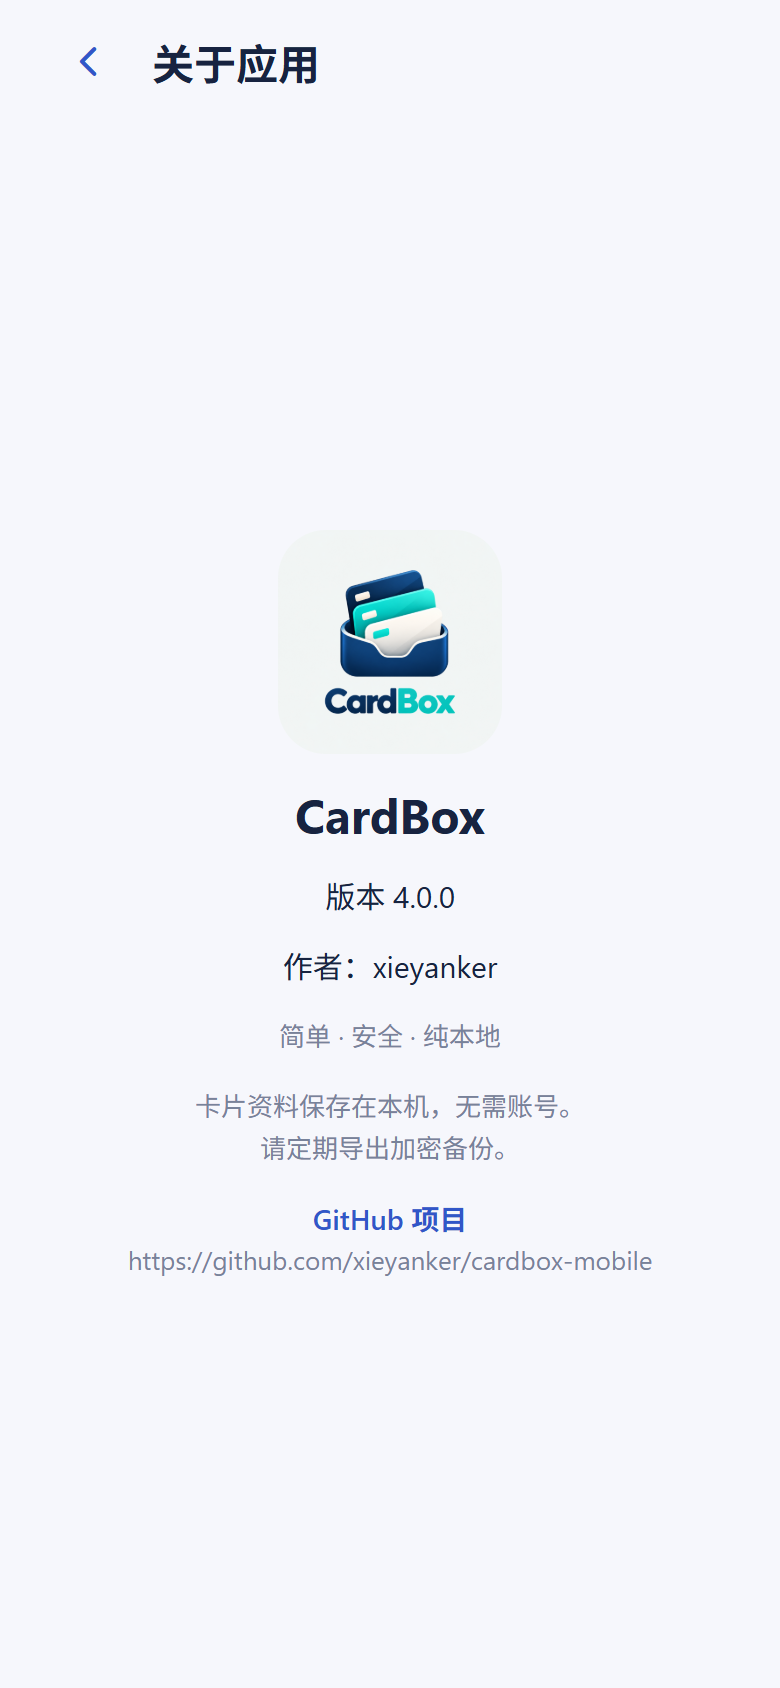
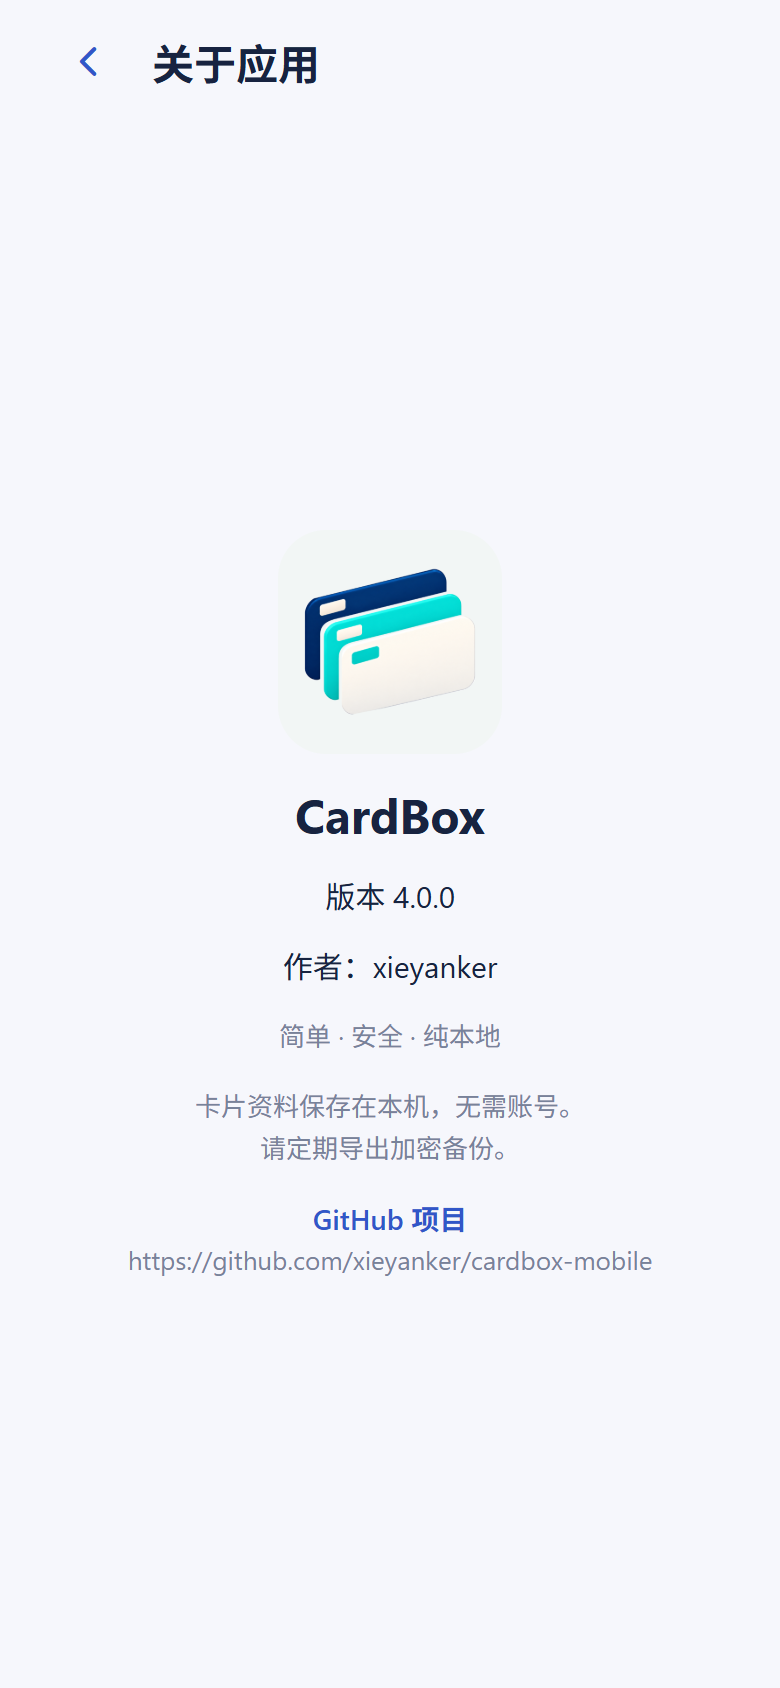
feat: adopt refined three-card CardBox branding

Changed region(s): [[0.3692, 0.3389, 0.5846, 0.4313]]

diff --git a/app.config.ts b/app.config.ts
@@ -31,9 +31,6 @@ const env = {
   // App branding - update these values directly (do not use env vars)
   appName: "CardBox",
   appSlug: "cardbox-mobile",
-  // S3 URL of the app logo - set this to the URL returned by generate_image when creating custom logo
-  // Leave empty to use the default icon from assets/images/icon.png
-  logoUrl: "",
   scheme: schemeFromBundleId,
   iosBundleId: bundleId,
   androidPackage: bundleId,
@@ -45,6 +42,7 @@ const config: ExpoConfig = {
   owner: "xieyanker",
   version: packageJson.version,
   orientation: "portrait",
+  // Shared 4.0 three-card branding: launcher, About, splash and documentation.
   icon: "./assets/images/icon.png",
   scheme: env.scheme,
   userInterfaceStyle: "automatic",

diff --git a/app/(tabs)/index.tsx b/app/(tabs)/index.tsx
@@ -711,7 +711,7 @@ export default function HomeScreen() {
           <Image
             source={require("../../assets/images/icon.png")}
             style={{ width: 112, height: 112, borderRadius: 24 }}
-            accessibilityLabel="CardBox 应用图标"
+            accessibilityLabel="CardBox 三卡叠放应用图标"
           />
           <Text style={styles.heading}>CardBox</Text>
           <Text style={styles.text}>版本 {APP_VERSION}</Text>

diff --git a/docs/design/ICON.md b/docs/design/ICON.md
@@ -2,24 +2,54 @@
 
 [设计说明](README.md) · [文档目录](../README.md) · [项目首页](../../README.md)
 
-图标在 3.0 引入，当前 4.0.0 沿用；下方记录素材来源和生成方式。
+更新日期：2026-10-13。当前版本 4.0.0 使用用户确认的三卡叠放图标。
 
-2026-10-11 使用内置 imagegen 生成原创图标。设计为三张深蓝、青绿与米白卡片收纳在卡包中，下方包含完整的 **CardBox** 字样。应用图标使用浅色背景；Android 自适应前景和启动标志保留透明背景；主题图标使用单色前景。
+## 当前设计
 
-生成原图保存在 `assets/branding/`，实际应用资源保存在 `assets/images/`。使用项目已有的 Expo 图像工具导出平台尺寸：
+![CardBox 三卡叠放应用图标](../../assets/images/icon.png)
+
+三张卡片从后到前为深蓝、青绿和米白，按相同角度向右上倾斜，两侧竖直，向右下错位叠放。保留卡面左上角的小标记与柔和质感，去掉原图的卡夹、CardBox 文字和斜向反光分界。颜色、圆角、间距与边缘处理统一，便于在小尺寸下辨认。
+
+用户在本轮逐步确认造型、配色和细节，最终授权接入应用。设计使用内置 imagegen 生成和调整；已确认的原始图保存在 `assets/branding/cardbox-approved-artwork.png`，平台资源由同一图稿导出，不再分别重绘。
+
+## 资源与引用
+
+| 文件                                                                                                                      | 用途                                             |
+| ------------------------------------------------------------------------------------------------------------------------- | ------------------------------------------------ |
+| [已确认原稿](../../assets/branding/cardbox-approved-artwork.png)                                                          | 保留用户选定的颜色、布局和质感。                 |
+| [透明标志](../../assets/branding/cardbox-brand-source.png)                                                                | 居中的三卡图形，透明背景。                       |
+| [完整图标源](../../assets/branding/cardbox-icon-source.png)                                                               | 浅色背景的 1024 × 1024 PNG。                     |
+| [单色源](../../assets/branding/cardbox-monochrome-source.png)                                                             | 黑色轮廓，卡片分隔与小标记镂空。                 |
+| [应用图标](../../assets/images/icon.png)                                                                                  | Expo / iOS 图标、应用关于页、README 与功能说明。 |
+| [Android 前景](../../assets/images/android-icon-foreground.png) · [背景](../../assets/images/android-icon-background.png) | 自适应图标的独立图层。                           |
+| [Android 单色](../../assets/images/android-icon-monochrome.png)                                                           | 系统主题图标，颜色由系统决定。                   |
+| [启动画面](../../assets/images/splash-icon.png)                                                                           | 透明三卡标志，配合浅色启动背景。                 |
+| [Web 图标](../../assets/images/favicon.png)                                                                               | 256 × 256 favicon。                              |
+
+除 favicon 外，导出的平台资源均为 1024 × 1024。应用图标与背景图完全不透明；前景、启动标志和单色图保留透明背景。普通图标的图形宽度为 780 像素；Android 前景和单色图缩至 570 像素，有效像素位于约 66% 直径的安全圆内。
+
+配置集中在 `app.config.ts`，背景为 `#F2F6F5`。关于页直接读取 `assets/images/icon.png`，不存在独立的旧图标副本。
+
+## 重新生成
+
+安装项目依赖，并确保本机可使用 Google Chrome 后执行：
 
 ```powershell
 node scripts/generate-brand-assets.cjs
 ```
 
-Android 自适应与单色前景增加透明留白，使图形和文字位于 66% 直径安全圆内；应用图标是 1024 × 1024 不透明 PNG，Web 图标为 256 × 256。配置在 `app.config.ts`，启动画面背景与图标统一为 `#F2F6F5`。
+脚本使用 Playwright Canvas 将已确认图稿与固定轮廓蒙版合成，规范透明边缘、方形画布和平台尺寸；单色图使用同一轮廓并镂空小标记。生成后检查不透明资源的 alpha、有效像素及 Android 安全圆。手工修改确认原稿的比例或布局时，须同步检查脚本中的轮廓坐标，不应直接用新图覆盖而跳过视觉检查。
 
-## 生成提示词
+视觉检查包括浅色 / 深色衬底、圆形 / 圆角方形裁切及小尺寸效果。Web 关于页和文档演示图可验证引用，但安装图标、系统主题图标与原生启动画面仍需新 APK 真机验收。
 
-主标志：制作 CardBox 本地银行卡管理应用的简洁、精致标志。三张圆角卡片叠放在卡包中，以深蓝 `#142B45`、青绿 `#35C9B6` 和米白为主色，采用干净几何形状与轻微立体渐变。下方使用粗体几何无衬线完整写出 “CardBox”，C、B 大写。正方形透明画布，居中，保留充足安全留白；无其他文字、卡号、银行品牌、水印或设备模型。
+## 设计提示词与加工
 
-应用图标变体：仅将主标志透明背景替换为浅色 `#F2F6F5`，保留图形、文字、构图和留白，输出无外部圆角的完整正方形。
+最终设计要求：保留三张卡片的大小、角度、位置和叠放布局；从后到前为深蓝、青绿与米白；去除全部斜向反光分界，卡面仅保留连续柔和色调；减弱荧光高光和厚重边缘；统一圆角、小标记和间距；无卡夹、无文字、无额外装饰。
 
-主题图标变体：将主标志转为透明背景上的黑色单色轮廓，保留卡片、卡包和 “CardBox” 字样，以透明负形分隔卡片；无彩色、灰色渐变或白底矩形。
+使用内置 imagegen 编辑已确认图稿。平台导出采用原稿的固定轮廓蒙版，避免透明背景提取改变米白卡片或留下杂色边缘；导出过程不会改变卡包、加密数据或备份。
 
-图标、启动画面等原生安装资源在新安装包中生效；Expo Go 的桌面图标由 Expo Go 自身控制。
+## 3.0 历史图标
+
+3.0 图标于 2026-10-11 引入，采用三张卡片收纳在蓝色卡夹内并带完整 CardBox 文字。该设计已包含在已发布的 3.0.2 APK 中；旧资源与生成说明可从 Git 历史提交 `5f8011f` 查阅。3.0 的需求和发布记录保留当时语境，不改写为新图标。
+
+4.0 原生图标与启动画面在重新构建 APK 后生效；Expo Go 的桌面图标属于 Expo Go。当前没有为本轮生成 APK 或创建发布 tag。

diff --git a/docs/FEATURES.md b/docs/FEATURES.md
@@ -151,12 +151,12 @@ CardBox 是一个资料保存在本机的数字卡包。无需创建账号，可
 
 ## 图标与应用信息
 
-<p><img src="../assets/images/icon.png" width="160" alt="CardBox 图标：深蓝色与青绿色卡包，带 CardBox 字样" /> <img src="images/about.png" width="230" alt="关于应用页面，显示 CardBox 图标与版本 4.0.0" /></p>
+<p><img src="../assets/images/icon.png" width="160" alt="CardBox 新图标：深蓝、青绿与米白三张卡片错位叠放" /> <img src="images/about.png" width="230" alt="关于应用页面，显示三卡叠放图标与版本 4.0.0" /></p>
 
-图标以卡包和叠放卡片为主体，包含 **CardBox** 字样。独立 APK 使用此图标；“关于应用”显示同一图标、版本、作者和 GitHub 项目入口。Android 自适应图标、单色主题图标和启动画面已配置，素材与设计说明见 [图标设计](design/ICON.md)。
+4.0 图标采用深蓝、青绿与米白三张卡片错位叠放，去掉卡夹、文字与斜向反光分界，保留统一的上斜角度和柔和质感。“关于应用”、Web 图标与文档使用同一素材；Android 自适应、单色主题图标和启动画面一并更新。原生安装资源需重新构建的 APK 才生效，已发布的 3.0.2 仍使用历史图标；素材与生成方式见 [图标设计](design/ICON.md)。
 
 ## 截图与版本记录
 
-演示图于 2026-10-12 从 `main` 的 4.0.0 页面重新采集，仅在截图时隐藏 Expo 开发刷新浮标，没有改写应用布局或功能。八张卡片通过添加表单建立，类型、常用、搜索、图片编辑、排序与备份均通过实际页面操作展示。用户真机照片和原始设计图按 SHA-256 校验保持原样。采集脚本为 `scripts/capture-cardbox-docs.cjs`，版本、源码提交、视口、文件清单与受保护图片哈希见 [采集记录](images/demo-manifest.json)。
+演示图于 2026-10-13 在 `main` 工作目录接入新图标后重新采集，仅在截图时隐藏 Expo 开发刷新浮标，没有改写应用布局或功能。八张卡片通过添加表单建立，类型、常用、搜索、图片编辑、排序与备份均通过实际页面操作展示。用户真机照片和原始设计图按 SHA-256 校验保持原样。采集脚本为 `scripts/capture-cardbox-docs.cjs`，版本、基线提交、工作目录修改状态、视口、文件清单与受保护图片哈希见 [采集记录](images/demo-manifest.json)。
 
 已发布的 3.0.2 Android APK 已通过 EAS 构建并作为 [3.0.2 Release 附件](https://github.com/xieyanker/cardbox-mobile/releases/tag/3.0.2) 发布。构建成功与完整真机验收分别记录，验收进度见 [Android 调试与验收](TESTING.md)。

diff --git a/CHANGELOG.md b/CHANGELOG.md
@@ -14,6 +14,7 @@
 - 卡面增加可移动裁剪、缩放、旋转、像素遮挡和移除；增加照片隐私、30 秒敏感信息隐藏、立即锁定、原生截图保护和存储清理，保留恢复点图片；兼容旧应用容器图片路径。
 - 收尾：编辑、备份、导航与返回策略拆为独立模块；排序支持边缘自动滚动和跨屏浮动预览，松手保存一次，退出 / 取消不改顺序；新增跨屏、失败及触屏回归。
 - 2026-10-13 文档整理：精简首页展示，增加统一文档目录；当前使用、开发与验收说明和历史记录分开维护，单窗口手机调试与 4.0 验收清单集中放置，保留用户原图。
+- 2026-10-13 图标更新：采用用户确认的三卡叠放设计，移除卡夹、文字和斜向反光分界；同步应用、关于页、Web、自适应 / 单色图标、启动画面与当前文档，历史版本保持原记录。
 
 验证（2026-10-12）：TypeScript、95 条业务测试、23 项原有 Web 回归、15 项 4.0 专项、7 项排序专项与三模式操作检查通过；ESLint 0 错误 / 7 条原模板警告。Android 代码包记录和真机验收边界见开发记录；用户真机输入、升级、屏幕保护与图片操作验收待完成，未创建 tag 或新 APK。
 

diff --git a/docs/design/README.md b/docs/design/README.md
@@ -2,7 +2,7 @@
 
 [项目首页](../../README.md) · [文档目录](../README.md) · [当前功能说明](../FEATURES.md)
 
-更新日期：2026-10-13。当前版本 4.0.0；原型于 2026-10-10 归档，下面的 2.0 对照表保留历史语境。图标与浏览模式在 3.0 引入并沿用至今，分别见[图标设计](ICON.md)和[浏览模式设计](BROWSE_MODES.md)。4.0 新增掩码输入、搜索 / 常用、卡面编辑、边缘拖动和备份恢复等，完整范围见[开发记录](../CARDBOX_4.0_REQUIREMENTS.md)。
+更新日期：2026-10-13。当前版本 4.0.0；原型于 2026-10-10 归档，下面的 2.0 对照表保留历史语境。4.0 图标重新设计为三张卡片叠放，浏览模式沿用 3.0 设计，分别见[图标设计](ICON.md)和[浏览模式设计](BROWSE_MODES.md)。4.0 新增掩码输入、搜索 / 常用、卡面编辑、边缘拖动和备份恢复等，完整范围见[开发记录](../CARDBOX_4.0_REQUIREMENTS.md)。
 
 ## 原始原型图
 

diff --git a/docs/DEVELOPMENT.md b/docs/DEVELOPMENT.md
@@ -137,3 +137,5 @@ Windows 可开发 Android；iOS 本机编译和模拟器需要 macOS / Xcode。i
 - [EAS 构建设置](https://docs.expo.dev/build/setup/)：云端构建与项目配置。
 - [Android Studio / Emulator](https://docs.expo.dev/workflow/android-studio-emulator/)：本机环境与模拟器。
 - [SDK 54 LocalAuthentication](https://docs.expo.dev/versions/v54.0.0/sdk/local-authentication/)：系统验证与 Face ID 限制。
+
+  4.0 三卡图标已接入应用、Web、Android 自适应 / 单色图标和启动画面；资源位置、生成命令和安全范围见[图标设计](design/ICON.md)。更新图稿后先执行 `node scripts/generate-brand-assets.cjs`，再检查关于页并重采集文档演示图。安装图标与原生启动画面需要重新构建 APK，Expo Go 的桌面图标不会改变。

diff --git a/README.md b/README.md
@@ -1,5 +1,5 @@
 <p align="center">
-  <img src="assets/images/icon.png" width="100" alt="CardBox 应用图标" />
+  <img src="assets/images/icon.png" width="100" alt="CardBox 三卡叠放应用图标：深蓝、青绿和米白" />
 </p>
 
 # CardBox
@@ -29,7 +29,7 @@
   </tr>
 </table>
 
-演示图采集于 2026-10-12，使用 4.0.0 Web 移动视口与虚构卡片，不代表 Android 真机验收。更多页面见[功能与使用说明](docs/FEATURES.md)。
+演示图于 2026-10-13 同步新图标后重新采集，使用 4.0.0 Web 移动视口与虚构卡片，不代表 Android 真机验收。更多页面见[功能与使用说明](docs/FEATURES.md)。
 
 <details>
 <summary>用户提供的 Android 真机照片（原图保留）</summary>
